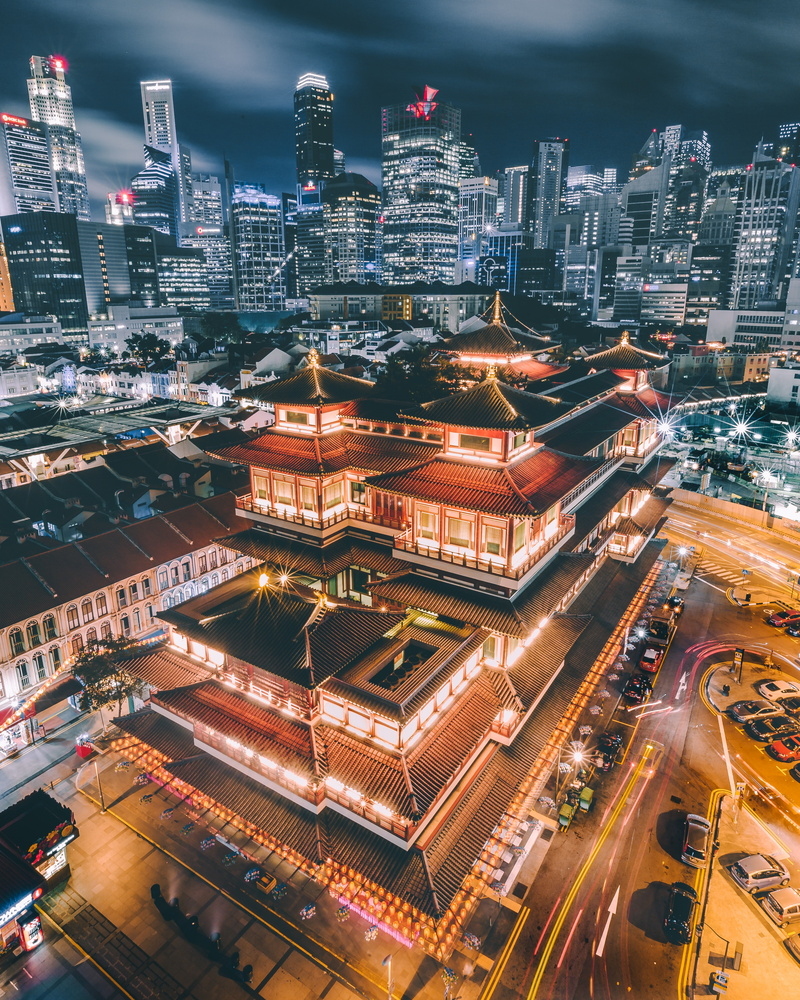
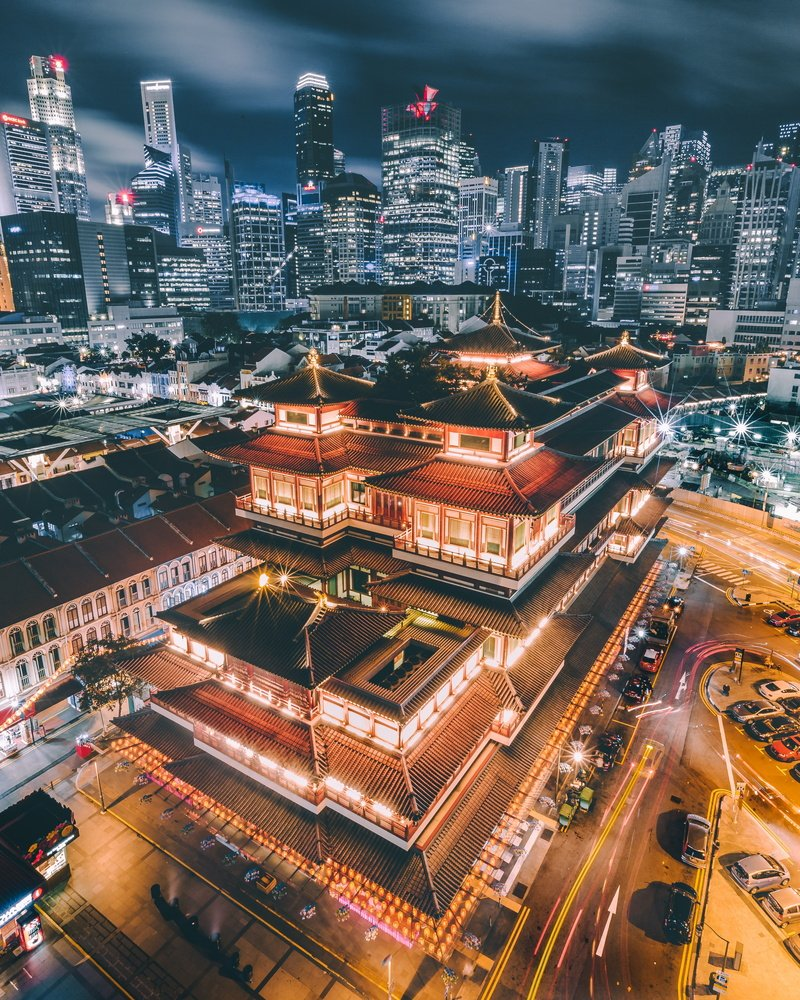
Change: ファイル軽量化による最適化

diff --git a/public/css/prism.min.css b/public/css/prism.min.css
@@ -1,0 +1,96 @@
+code[class*="language-"], pre[class*="language-"]{text-align:left;white-space:pre;word-spacing:normal;word-wrap:normal;word-break:normal;-moz-tab-size:4;-o-tab-size:4;tab-size:4;-webkit-hyphens:none;-moz-hyphens:none;hyphens:none;font-family:Consolas, Monaco, "Andale Mono", "Ubuntu Mono", monospace;color:#CCC;background:none;-ms-hyphens:none;}
+pre[class*="language-"]{overflow:auto;margin:0.5em 0;padding:1em;}
+:not(pre) > code[class*="language-"], pre[class*="language-"]{background:#2D2D2D;}
+:not(pre) > code[class*="language-"]{padding:0.1em;white-space:normal;border-radius:0.3em;}
+.token.comment, .token.block-comment, .token.prolog, .token.doctype, .token.cdata{color:#999;}
+.token.punctuation{color:#CCC;}
+.token.tag, .token.attr-name, .token.namespace, .token.deleted{color:#E2777A;}
+.token.function-name{color:#6196CC;}
+.token.boolean, .token.number, .token.function{color:#F08D49;}
+.token.property, .token.class-name, .token.constant, .token.symbol{color:#F8C555;}
+.token.selector, .token.important, .token.atrule, .token.keyword, .token.builtin{color:#CC99CD;}
+.token.string, .token.char, .token.attr-value, .token.regex, .token.variable{color:#7EC699;}
+.token.operator, .token.entity, .token.url{color:#67CDCC;}
+.token.important, .token.bold{font-weight:bold;}
+.token.italic{font-style:italic;}
+.token.entity{cursor:help;}
+.token.inserted{color:green;}
+pre[data-line]{position:relative;padding:1em 0 1em 3em;}
+.line-highlight{position:absolute;right:0;left:0;margin-top:1em;padding:inherit 0;white-space:pre;pointer-events:none;line-height:inherit;background:hsla(24, 20%, 50%, 0.08);background:linear-gradient(to right, hsla(24, 20%, 50%, 0.1) 70%, hsla(24, 20%, 50%, 0));}
+.line-highlight:before, .line-highlight[data-end]:after{position:absolute;top:0.4em;left:0.6em;min-width:1em;padding:0 0.5em;content:attr(data-start);text-align:center;vertical-align:0.3em;font:bold 65%/1.5 sans-serif;color:hsl(24, 20%, 95%);border-radius:999px;background-color:hsla(24, 20%, 50%, 0.4);box-shadow:0 1px white;text-shadow:none;}
+.line-highlight[data-end]:after{top:auto;bottom:0.4em;content:attr(data-end);}
+.line-numbers .line-highlight:before, .line-numbers .line-highlight:after{content:none;}
+pre[class*="language-"].line-numbers{position:relative;padding-left:3.8em;counter-reset:linenumber;}
+pre[class*="language-"].line-numbers > code{position:relative;white-space:inherit;}
+.line-numbers .line-numbers-rows{position:absolute;top:0;left:-3.8em;width:3em;-webkit-user-select:none;-moz-user-select:none;-ms-user-select:none;user-select:none;letter-spacing:-1px;pointer-events:none;font-size:100%;border-right:1px solid #999;}
+.line-numbers-rows > span{display:block;counter-increment:linenumber;pointer-events:none;}
+.line-numbers-rows > span:before{display:block;padding-right:0.8em;content:counter(linenumber);text-align:right;color:#999;}
+.token.tab:not(:empty), .token.cr, .token.lf, .token.space{position:relative;}
+.token.tab:not(:empty):before, .token.cr:before, .token.lf:before, .token.space:before{position:absolute;color:hsl(24, 20%, 85%);}
+.token.tab:not(:empty):before{}
+.token.cr:before{}
+.token.crlf:before{}
+.token.lf:before{}
+.token.space:before{}
+.token a{color:inherit;}
+code[class*="language-"] a[href], pre[class*="language-"] a[href]{cursor:help;text-decoration:none;}
+code[class*="language-"] a[href]:hover, pre[class*="language-"] a[href]:hover{cursor:help;text-decoration:underline;}
+div.code-toolbar{position:relative;}
+div.code-toolbar > .toolbar{position:absolute;top:0.3em;right:0.2em;transition:opacity 0.3s ease-in-out;opacity:0;}
+div.code-toolbar:hover > .toolbar{opacity:1;}
+div.code-toolbar > .toolbar .toolbar-item{display:inline-block;}
+div.code-toolbar > .toolbar a{cursor:pointer;}
+div.code-toolbar > .toolbar button{overflow:visible;padding:0;-webkit-user-select:none;-moz-user-select:none;-ms-user-select:none;font:inherit;line-height:normal;color:inherit;border:0;background:none;}
+div.code-toolbar > .toolbar a, div.code-toolbar > .toolbar button, div.code-toolbar > .toolbar span{padding:0 0.5em;font-size:0.8em;color:#BBB;border-radius:0.5em;background:#F5F2F0;background:rgba(224, 224, 224, 0.2);box-shadow:0 2px 0 0 rgba(0,0,0,0.2);}
+div.code-toolbar > .toolbar a:hover, div.code-toolbar > .toolbar a:focus, div.code-toolbar > .toolbar button:hover, div.code-toolbar > .toolbar button:focus, div.code-toolbar > .toolbar span:hover, div.code-toolbar > .toolbar span:focus{text-decoration:none;color:inherit;}
+.prism-previewer, .prism-previewer:before, .prism-previewer:after{position:absolute;pointer-events:none;}
+.prism-previewer, .prism-previewer:after{left:50%;}
+.prism-previewer{width:32px;height:32px;margin-top:-48px;margin-left:-16px;-webkit-transition:opacity 0.25s;-o-transition:opacity 0.25s;transition:opacity 0.25s;opacity:0;}
+.prism-previewer.flipped{margin-top:0;margin-bottom:-48px;}
+.prism-previewer:before, .prism-previewer:after{position:absolute;content:"";pointer-events:none;}
+.prism-previewer:before{top:-5px;right:-5px;bottom:-5px;left:-5px;border:5px solid #FFF;border-radius:10px;box-shadow:0 0 3px rgba(0, 0, 0, 0.5) inset, 0 0 10px rgba(0, 0, 0, 0.75);}
+.prism-previewer:after{top:100%;width:0;height:0;margin:5px 0 0 -7px;border:7px solid transparent;border-color:rgba(255, 0, 0, 0);border-top-color:#FFF;}
+.prism-previewer.flipped:after{top:auto;bottom:100%;margin-top:0;margin-bottom:5px;border-top-color:rgba(255, 0, 0, 0);border-bottom-color:#FFF;}
+.prism-previewer.active{opacity:1;}
+.prism-previewer-angle:before{border-radius:50%;background:#FFF;}
+.prism-previewer-angle:after{margin-top:4px;}
+.prism-previewer-angle svg{width:32px;height:32px;-webkit-transform:rotate(-90deg);-moz-transform:rotate(-90deg);-ms-transform:rotate(-90deg);-o-transform:rotate(-90deg);transform:rotate(-90deg);}
+.prism-previewer-angle[data-negative] svg{-webkit-transform:scaleX(-1) rotate(-90deg);-moz-transform:scaleX(-1) rotate(-90deg);-ms-transform:scaleX(-1) rotate(-90deg);-o-transform:scaleX(-1) rotate(-90deg);transform:scaleX(-1) rotate(-90deg);}
+.prism-previewer-angle circle{fill:transparent;stroke:hsl(200, 10%, 20%);stroke-dasharray:0, 500;stroke-opacity:0.9;stroke-width:32;}
+.prism-previewer-gradient{width:64px;margin-left:-32px;background-image:linear-gradient(45deg, #BBB 25%, transparent 25%, transparent 75%, #BBB 75%, #BBB), linear-gradient(45deg, #BBB 25%, #EEE 25%, #EEE 75%, #BBB 75%, #BBB);background-position:0 0, 5px 5px;background-size:10px 10px;}
+.prism-previewer-gradient:before{content:none;}
+.prism-previewer-gradient div{position:absolute;top:-5px;right:-5px;bottom:-5px;left:-5px;border:5px solid #FFF;border-radius:10px;box-shadow:0 0 3px rgba(0, 0, 0, 0.5) inset, 0 0 10px rgba(0, 0, 0, 0.75);}
+.prism-previewer-color{background-image:linear-gradient(45deg, #BBB 25%, transparent 25%, transparent 75%, #BBB 75%, #BBB), linear-gradient(45deg, #BBB 25%, #EEE 25%, #EEE 75%, #BBB 75%, #BBB);background-position:0 0, 5px 5px;background-size:10px 10px;}
+.prism-previewer-color:before{background-color:inherit;background-clip:padding-box;}
+.prism-previewer-easing{width:60px;height:60px;margin-top:-76px;margin-left:-30px;background:#333;}
+.prism-previewer-easing.flipped{margin-bottom:-116px;}
+.prism-previewer-easing svg{width:60px;height:60px;}
+.prism-previewer-easing circle{fill:hsl(200, 10%, 20%);stroke:white;}
+.prism-previewer-easing path{fill:none;stroke:white;stroke-linecap:round;stroke-width:4;}
+.prism-previewer-easing line{stroke:white;stroke-opacity:0.5;stroke-width:2;}
+@-webkit-keyframes prism-previewer-time{0%{stroke-dasharray:0, 500;stroke-dashoffset:0;}
+50%{stroke-dasharray:100, 500;stroke-dashoffset:0;}
+100%{stroke-dasharray:0, 500;stroke-dashoffset:-100;}
+}
+@-o-keyframes prism-previewer-time{0%{stroke-dasharray:0, 500;stroke-dashoffset:0;}
+50%{stroke-dasharray:100, 500;stroke-dashoffset:0;}
+100%{stroke-dasharray:0, 500;stroke-dashoffset:-100;}
+}
+@-moz-keyframes prism-previewer-time{0%{stroke-dasharray:0, 500;stroke-dashoffset:0;}
+50%{stroke-dasharray:100, 500;stroke-dashoffset:0;}
+100%{stroke-dasharray:0, 500;stroke-dashoffset:-100;}
+}
+@keyframes prism-previewer-time{0%{stroke-dasharray:0, 500;stroke-dashoffset:0;}
+50%{stroke-dasharray:100, 500;stroke-dashoffset:0;}
+100%{stroke-dasharray:0, 500;stroke-dashoffset:-100;}
+}
+.prism-previewer-time:before{border-radius:50%;background:#FFF;}
+.prism-previewer-time:after{margin-top:4px;}
+.prism-previewer-time svg{width:32px;height:32px;-webkit-transform:rotate(-90deg);-moz-transform:rotate(-90deg);-ms-transform:rotate(-90deg);-o-transform:rotate(-90deg);transform:rotate(-90deg);}
+.prism-previewer-time circle{-webkit-animation:prism-previewer-time linear infinite 3s;-moz-animation:prism-previewer-time linear infinite 3s;-o-animation:prism-previewer-time linear infinite 3s;animation:prism-previewer-time linear infinite 3s;fill:transparent;stroke:hsl(200, 10%, 20%);stroke-dasharray:0, 500;stroke-dashoffset:0;stroke-opacity:0.9;stroke-width:32;}
+[class*="lang-"] script[type="text/plain"], [class*="language-"] script[type="text/plain"], script[type="text/plain"][class*="lang-"], script[type="text/plain"][class*="language-"]{display:block;overflow:auto;white-space:pre;font:100% Consolas, Monaco, monospace;}
+.command-line-prompt{display:block;float:left;margin-right:1em;-webkit-user-select:none;-moz-user-select:none;-ms-user-select:none;user-select:none;letter-spacing:-1px;pointer-events:none;font-size:100%;border-right:1px solid #999;}
+.command-line-prompt > span:before{display:block;padding-right:0.8em;content:" ";color:#999;}
+.command-line-prompt > span[data-user]:before{content:"[" attr(data-user) "@" attr(data-host) "] $";}
+.command-line-prompt > span[data-user="root"]:before{content:"[" attr(data-user) "@" attr(data-host) "] #";}
+.command-line-prompt > span[data-prompt]:before{content:attr(data-prompt);}

diff --git a/public/scp-updateLog.html b/public/scp-updateLog.html
@@ -6,8 +6,8 @@
 	<title>マニュアル更新履歴</title>
 	<meta name="viewport" content="width=device-width, initial-scale=1">
 	<meta name="theme-color" content="#000011">
-	<link href="css/prism.css" rel="stylesheet" type="text/css">
-	<link href="css/style.css" rel="stylesheet" type="text/css">
+	<link href="css/prism.min.css" rel="stylesheet" type="text/css">
+	<link href="css/style.min.css" rel="stylesheet" type="text/css">
 </head>
 
 <body>
@@ -112,7 +112,13 @@
 		<header class="md-hide" role="banner">
 			<h1>マニュアル更新履歴</h1></header>
 		<main role="main">
-			<dl><dt><h2>2018/09/19</h2></dt>
+			<dl><dt><h2>2018/09/20</h2></dt>
+				<dd>
+					<ul>
+						<li>画像圧縮率の変更</li>
+						<li>JavaScriptのソースマップ出力方法の修正</li>
+					</ul>
+				</dd><dt><h2>2018/09/19</h2></dt>
 				<dd>
 					<ul>
 						<li>SCSSの項目を仮追加</li>

diff --git a/public/scp-randomWord.html b/public/scp-randomWord.html
@@ -6,8 +6,8 @@
 	<title>ランダムワード集</title>
 	<meta name="viewport" content="width=device-width, initial-scale=1">
 	<meta name="theme-color" content="#000011">
-	<link href="css/prism.css" rel="stylesheet" type="text/css">
-	<link href="css/style.css" rel="stylesheet" type="text/css">
+	<link href="css/prism.min.css" rel="stylesheet" type="text/css">
+	<link href="css/style.min.css" rel="stylesheet" type="text/css">
 	<style type="text/css">
 		dt:not(:first-child) {
 			margin-top: 20px;

diff --git a/public/css-textShadow.html b/public/css-textShadow.html
@@ -6,8 +6,8 @@
 	<title>文字装飾による可読性の向上</title>
 	<meta name="viewport" content="width=device-width, initial-scale=1">
 	<meta name="theme-color" content="#000011">
-	<link href="css/prism.css" rel="stylesheet" type="text/css">
-	<link href="css/style.css" rel="stylesheet" type="text/css">
+	<link href="css/prism.min.css" rel="stylesheet" type="text/css">
+	<link href="css/style.min.css" rel="stylesheet" type="text/css">
 	<style type="text/css">
 		.exsample1,
 		.exsample2 {

diff --git a/public/css-backgroundScrollLock.html b/public/css-backgroundScrollLock.html
@@ -6,8 +6,8 @@
 	<title>背景画像スクロールの固定</title>
 	<meta name="viewport" content="width=device-width, initial-scale=1">
 	<meta name="theme-color" content="#000011">
-	<link href="css/prism.css" rel="stylesheet" type="text/css">
-	<link href="css/style.css" rel="stylesheet" type="text/css">
+	<link href="css/prism.min.css" rel="stylesheet" type="text/css">
+	<link href="css/style.min.css" rel="stylesheet" type="text/css">
 	<style type="text/css">
 		.layer1,
 		.layer2 {

diff --git a/public/css-gradation.html b/public/css-gradation.html
@@ -6,8 +6,8 @@
 	<title>グラデーション</title>
 	<meta name="viewport" content="width=device-width, initial-scale=1">
 	<meta name="theme-color" content="#000011">
-	<link href="css/prism.css" rel="stylesheet" type="text/css">
-	<link href="css/style.css" rel="stylesheet" type="text/css">
+	<link href="css/prism.min.css" rel="stylesheet" type="text/css">
+	<link href="css/style.min.css" rel="stylesheet" type="text/css">
 	<style type="text/css">
 		.gradient1,
 		.gradient2,

diff --git a/public/css-backgroundLayer.html b/public/css-backgroundLayer.html
@@ -6,8 +6,8 @@
 	<title>backgroundを重ねる</title>
 	<meta name="viewport" content="width=device-width, initial-scale=1">
 	<meta name="theme-color" content="#000011">
-	<link href="css/prism.css" rel="stylesheet" type="text/css">
-	<link href="css/style.css" rel="stylesheet" type="text/css">
+	<link href="css/prism.min.css" rel="stylesheet" type="text/css">
+	<link href="css/style.min.css" rel="stylesheet" type="text/css">
 	<style type="text/css">
 		.layer1,
 		.layer2 {

diff --git a/public/php-fileProcessLock.html b/public/php-fileProcessLock.html
@@ -6,8 +6,8 @@
 	<title>ファイルを利用した二重起動防止</title>
 	<meta name="viewport" content="width=device-width, initial-scale=1">
 	<meta name="theme-color" content="#000011">
-	<link href="css/prism.css" rel="stylesheet" type="text/css">
-	<link href="css/style.css" rel="stylesheet" type="text/css">
+	<link href="css/prism.min.css" rel="stylesheet" type="text/css">
+	<link href="css/style.min.css" rel="stylesheet" type="text/css">
 </head>
 
 <body>

diff --git a/public/php-bind.html b/public/php-bind.html
@@ -6,8 +6,8 @@
 	<title>バインドを利用したSQLの実行</title>
 	<meta name="viewport" content="width=device-width, initial-scale=1">
 	<meta name="theme-color" content="#000011">
-	<link href="css/prism.css" rel="stylesheet" type="text/css">
-	<link href="css/style.css" rel="stylesheet" type="text/css">
+	<link href="css/prism.min.css" rel="stylesheet" type="text/css">
+	<link href="css/style.min.css" rel="stylesheet" type="text/css">
 </head>
 
 <body>

diff --git a/public/index.html b/public/index.html
@@ -6,8 +6,8 @@
 	<title>HTMLマニュアルトップページ</title>
 	<meta name="viewport" content="width=device-width, initial-scale=1">
 	<meta name="theme-color" content="#000011">
-	<link href="css/prism.css" rel="stylesheet" type="text/css">
-	<link href="css/style.css" rel="stylesheet" type="text/css">
+	<link href="css/prism.min.css" rel="stylesheet" type="text/css">
+	<link href="css/style.min.css" rel="stylesheet" type="text/css">
 </head>
 
 <body>

diff --git a/public/sql-transaction.html b/public/sql-transaction.html
@@ -6,8 +6,8 @@
 	<title>TRANSACTION(トランザクション)</title>
 	<meta name="viewport" content="width=device-width, initial-scale=1">
 	<meta name="theme-color" content="#000011">
-	<link href="css/prism.css" rel="stylesheet" type="text/css">
-	<link href="css/style.css" rel="stylesheet" type="text/css">
+	<link href="css/prism.min.css" rel="stylesheet" type="text/css">
+	<link href="css/style.min.css" rel="stylesheet" type="text/css">
 </head>
 
 <body>

diff --git a/public/sql-truncate.html b/public/sql-truncate.html
@@ -6,8 +6,8 @@
 	<title>TRUNCATE(テーブルを空にする)</title>
 	<meta name="viewport" content="width=device-width, initial-scale=1">
 	<meta name="theme-color" content="#000011">
-	<link href="css/prism.css" rel="stylesheet" type="text/css">
-	<link href="css/style.css" rel="stylesheet" type="text/css">
+	<link href="css/prism.min.css" rel="stylesheet" type="text/css">
+	<link href="css/style.min.css" rel="stylesheet" type="text/css">
 </head>
 
 <body>
